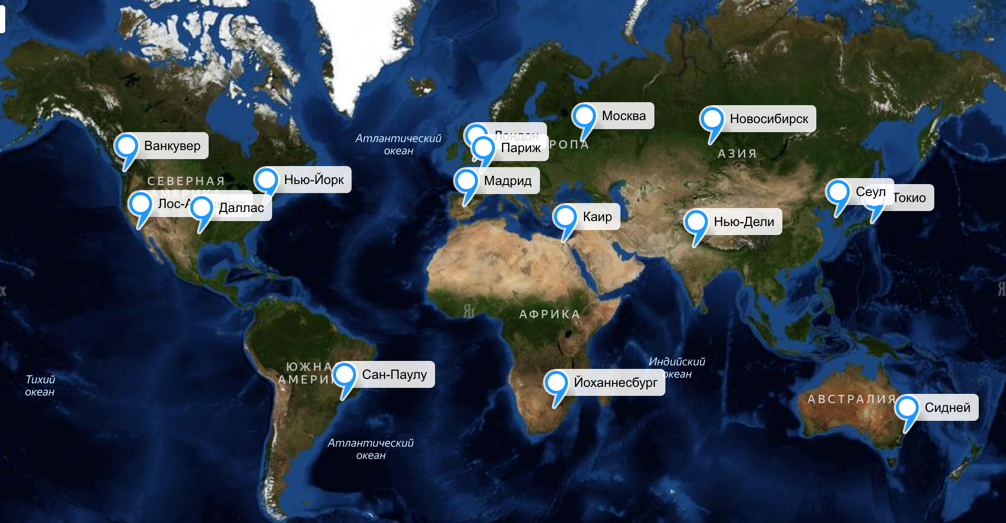
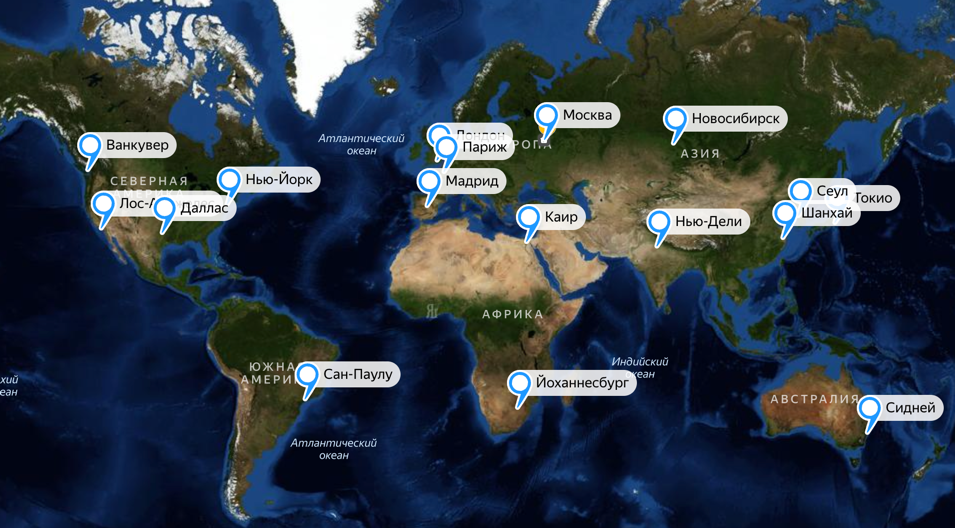
global load balancing

diff --git a/README.md b/README.md
@@ -109,7 +109,7 @@ Notion — сервис для создания заметок и текстов
 
 ![img3.png](images/img3.png)
 
-2. В Южной Корее и Японии находится 10% и 8% аудитории соответственно, что суммарно составляет почти 1 млн DAU. Засчет небольшой площади этих стран, достаточно расположить в них по одному ЦОДу:
+2. В Южной Корее и Японии находится 10% и 8% аудитории соответственно, что суммарно составляет почти 1 млн DAU. Засчет небольшой площади этих стран, достаточно расположить в них по одному ЦОДу. Также расположим еще один ЦОД в Шанхае, так как в Восточной части Китая сосредоточено достаточно много населения. Также это поможет распределить трафик из Японии и Кореи:
 
 ![img4.png](images/img4.png)
 
@@ -133,13 +133,13 @@ Notion — сервис для создания заметок и текстов
 
 ### Расчет распределения запросов по ЦОДам
 
-Суммарно имеем 16 ЦОДов на 5 млн DAU.
+Суммарно имеем 17 ЦОДов на 5 млн DAU.
 
 В идеале каждый ЦОД должен: 
-- обслуживать одинаковое среднее количество DAU: 5 000 000 / 16 = 312 500
-- получать одинаковое среднее количество RPS: 2964 / 16 = 185.
+- обслуживать одинаковое среднее количество DAU: 5 000 000 / 17 = 294 000
+- получать одинаковое среднее количество RPS: 4156 / 17 = 244.
 
-С учетом того, что по факту на какие-то ЦОДы может ходить в 2 раза больше пользователей из-за их неравномерного распределения, а также с учетом пиковой нагрузки х2.5 от средней, имеем пиковую нагрузку на ЦОД: 185 * 2 * 2.5 = 926 RPS.
+С учетом того, что по факту на какие-то ЦОДы может ходить в 2 раза больше пользователей из-за их неравномерного распределения, а также с учетом пиковой нагрузки х2.5 от средней, имеем пиковую нагрузку на ЦОД: 244 * 2 * 2.5 = 1220 RPS.
 
 ### DNS-балансировка
 
